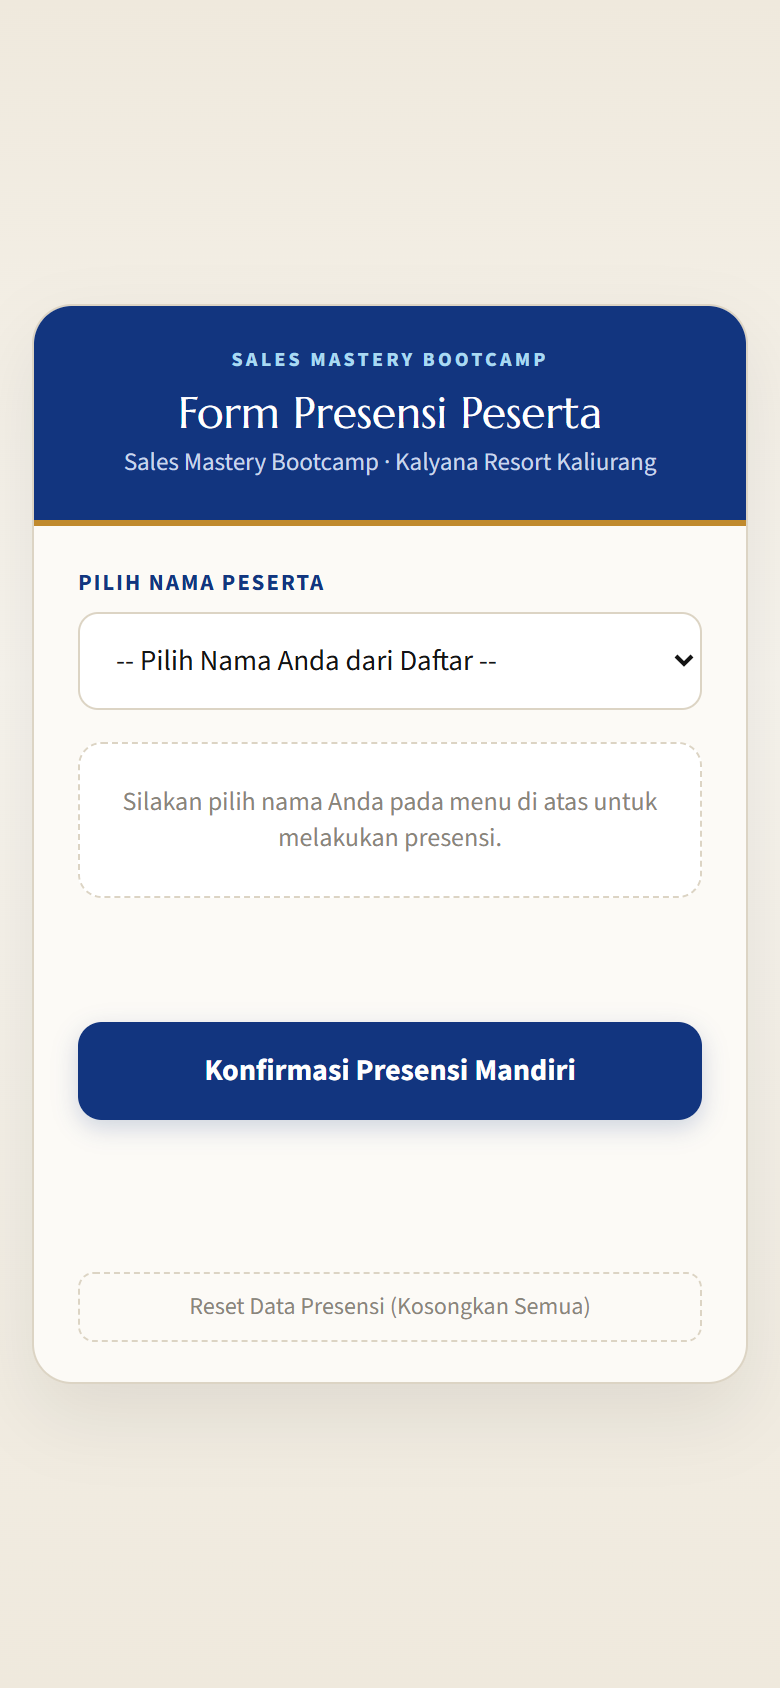
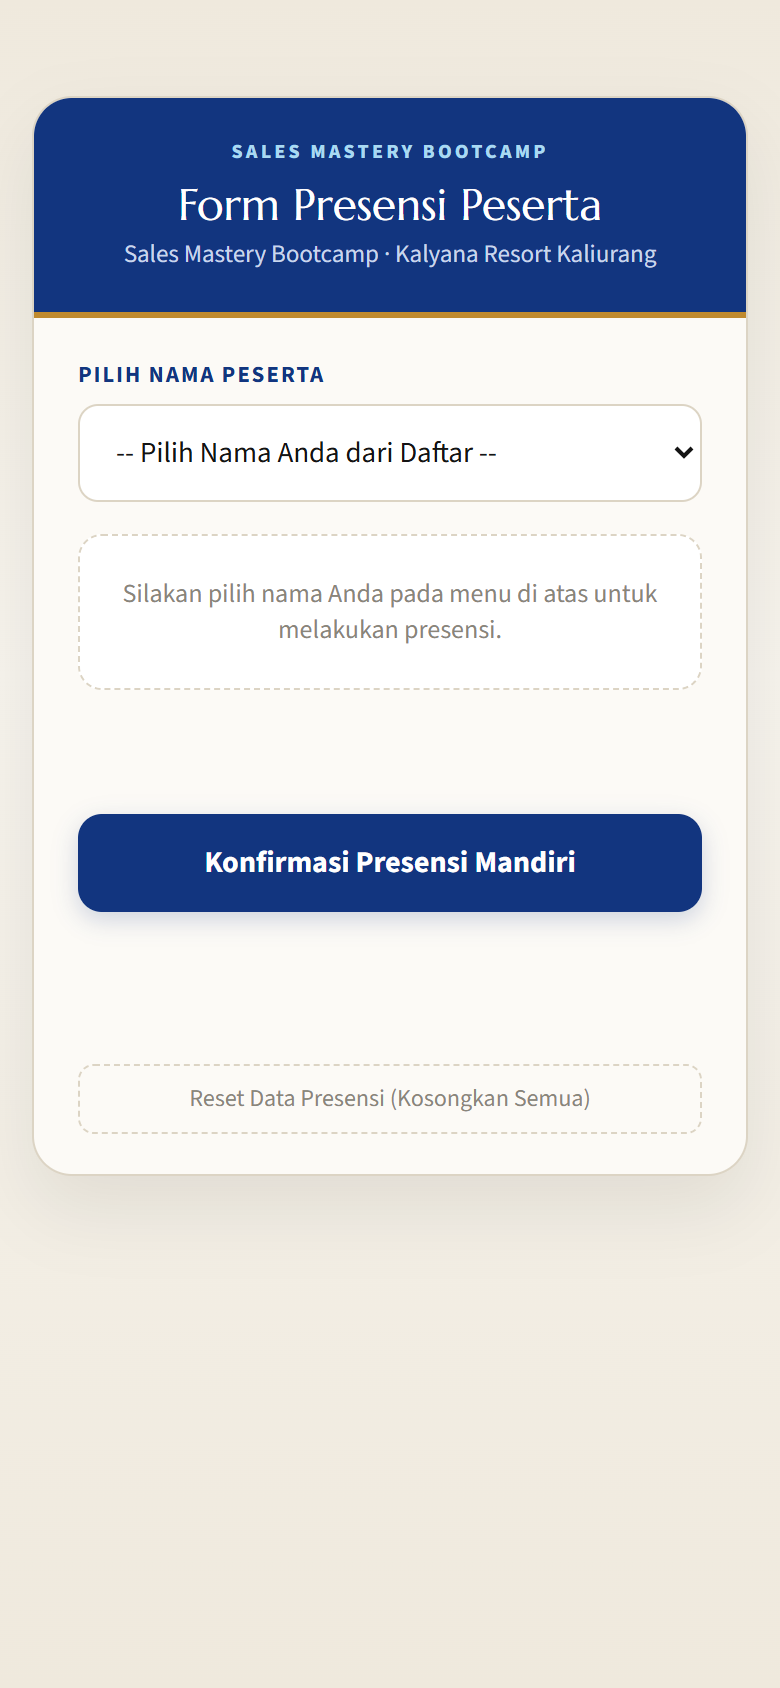
Remove return transport info from ticket pass, add top and bottom margins to checkin container, update ticket screenshot

diff --git a/checkin.html b/checkin.html
@@ -37,12 +37,13 @@
   }
 
   * { box-sizing: border-box; }
-  html, body { height: 100%; margin: 0; }
+  html { min-height: 100%; }
   body {
     font-family: var(--sans);
     color: var(--ink);
     background: linear-gradient(180deg, var(--paper) 0%, var(--paper-2) 40%, var(--paper) 100%);
-    display: flex; align-items: center; justify-content: center; padding: 16px;
+    display: flex; flex-direction: column; align-items: center; justify-content: flex-start;
+    padding: 32px 16px; margin: 0; min-height: 100vh;
     -webkit-font-smoothing: antialiased;
   }
   button { font: inherit; color: inherit; border: 0; background: none; cursor: pointer; }
@@ -52,6 +53,7 @@
     width: 100%; max-width: 440px; background: var(--card); border: 1px solid var(--line);
     border-radius: 20px; box-shadow: 0 16px 36px rgba(0,0,0,0.08); overflow: hidden;
     display: flex; flex-direction: column; position: relative; min-height: 540px;
+    margin: 16px auto 40px auto;
   }
 
   /* Header */
@@ -918,16 +920,7 @@ function getTransportPulangInfo(pNama) {
             ${denah(p ? p.kursi : null)}
           </div>
 
-          <div>
-            <div class="sec-lbl">INFORMASI TRANSPORT KEPULANGAN</div>
-            <div style="background:#F8FAFC; border:1px solid #E2E8F0; border-left:4px solid ${tp.borderColor}; border-radius:10px; padding:10px 14px; display:flex; align-items:center; justify-content:space-between;">
-              <div>
-                <div style="font-size:13.5px; font-weight:800; color:#0F172A;">🚘 ${tp.mobil}</div>
-                <div style="font-size:12px; color:#475569; margin-top:2px;">Driver: <b style="color:#0F172A;">${tp.driver}</b></div>
-              </div>
-              <span style="background:${tp.badgeBg}; color:${tp.badgeColor}; font-size:11px; font-weight:800; padding:4px 10px; border-radius:999px;">${tp.passCount}</span>
-            </div>
-          </div>
+
 
           <div>
             <div class="sec-lbl">REKAN DUDUK SEBELAH &amp; DiSC PROFILE</div>

diff --git a/scratch/capture_mobile_screenshots.js b/scratch/capture_mobile_screenshots.js
@@ -96,20 +96,32 @@ async function run() {
   });
 
   // 18. Tiket Digital Pass (Mobile)
-  console.log('Switching checkin view to ticket pass...');
+  console.log('Switching checkin view to ticket pass (Siti Rahma - Kursi #2)...');
   await page.evaluate(() => {
-    if (typeof S !== 'undefined') {
+    if (typeof S !== 'undefined' && typeof P !== 'undefined') {
+      const p = P.find(x => x.kursi === 2) || P[1];
+      if (p) {
+        S.orangAktif = p;
+        S.hadir.add(p.kode);
+      }
       S.view = 'ticket';
       if (typeof render === 'function') render();
     }
   });
-  await new Promise(r => setTimeout(r, 800));
+  await new Promise(r => setTimeout(r, 1000));
 
   console.log('Capturing 18_tiket_digital_peserta.png...');
-  await page.screenshot({
-    path: path.join(outputDir, '18_tiket_digital_peserta.png'),
-    clip: { x: 0, y: 0, width: 390, height: 844 }
-  });
+  const ticketElement = await page.$('.mobile-pass-card, .mobile-container');
+  if (ticketElement) {
+    await ticketElement.screenshot({
+      path: path.join(outputDir, '18_tiket_digital_peserta.png')
+    });
+  } else {
+    await page.screenshot({
+      path: path.join(outputDir, '18_tiket_digital_peserta.png'),
+      fullPage: true
+    });
+  }
 
   // 19. Scanner Operator Admin
   const scannerPath = `file:///${path.join(rootDir, 'scanner.html').replace(/\\/g, '/')}`;

diff --git a/scanner-grid.html b/scanner-grid.html
@@ -1211,16 +1211,7 @@ function modalTiketDigital() {
           ${denah(p.kursi)}
         </div>
 
-        <div>
-          <div class="sec-title">INFORMASI TRANSPORT KEPULANGAN</div>
-          <div style="background:#F8FAFC; border:1px solid #E2E8F0; border-left:4px solid ${tp.borderColor}; border-radius:10px; padding:10px 14px; display:flex; align-items:center; justify-content:space-between;">
-            <div>
-              <div style="font-size:13.5px; font-weight:800; color:#0F172A;">🚘 ${tp.mobil}</div>
-              <div style="font-size:12px; color:#475569; margin-top:2px;">Driver: <b style="color:#0F172A;">${tp.driver}</b></div>
-            </div>
-            <span style="background:${tp.badgeBg}; color:${tp.badgeColor}; font-size:11px; font-weight:800; padding:4px 10px; border-radius:999px;">${tp.passCount}</span>
-          </div>
-        </div>
+
 
         <div>
           <div class="sec-title">REKAN DUDUK SEBELAH &amp; DiSC PROFILE</div>

diff --git a/scanner.html b/scanner.html
@@ -839,16 +839,7 @@ function modalTiketDigital() {
           ${denah(p.kursi)}
         </div>
 
-        <div>
-          <div class="sec-title">INFORMASI TRANSPORT KEPULANGAN</div>
-          <div style="background:#F8FAFC; border:1px solid #E2E8F0; border-left:4px solid ${tp.borderColor}; border-radius:10px; padding:10px 14px; display:flex; align-items:center; justify-content:space-between;">
-            <div>
-              <div style="font-size:13.5px; font-weight:800; color:#0F172A;">🚘 ${tp.mobil}</div>
-              <div style="font-size:12px; color:#475569; margin-top:2px;">Driver: <b style="color:#0F172A;">${tp.driver}</b></div>
-            </div>
-            <span style="background:${tp.badgeBg}; color:${tp.badgeColor}; font-size:11px; font-weight:800; padding:4px 10px; border-radius:999px;">${tp.passCount}</span>
-          </div>
-        </div>
+
 
         <div>
           <div class="sec-title">REKAN DUDUK SEBELAH &amp; DiSC PROFILE</div>
